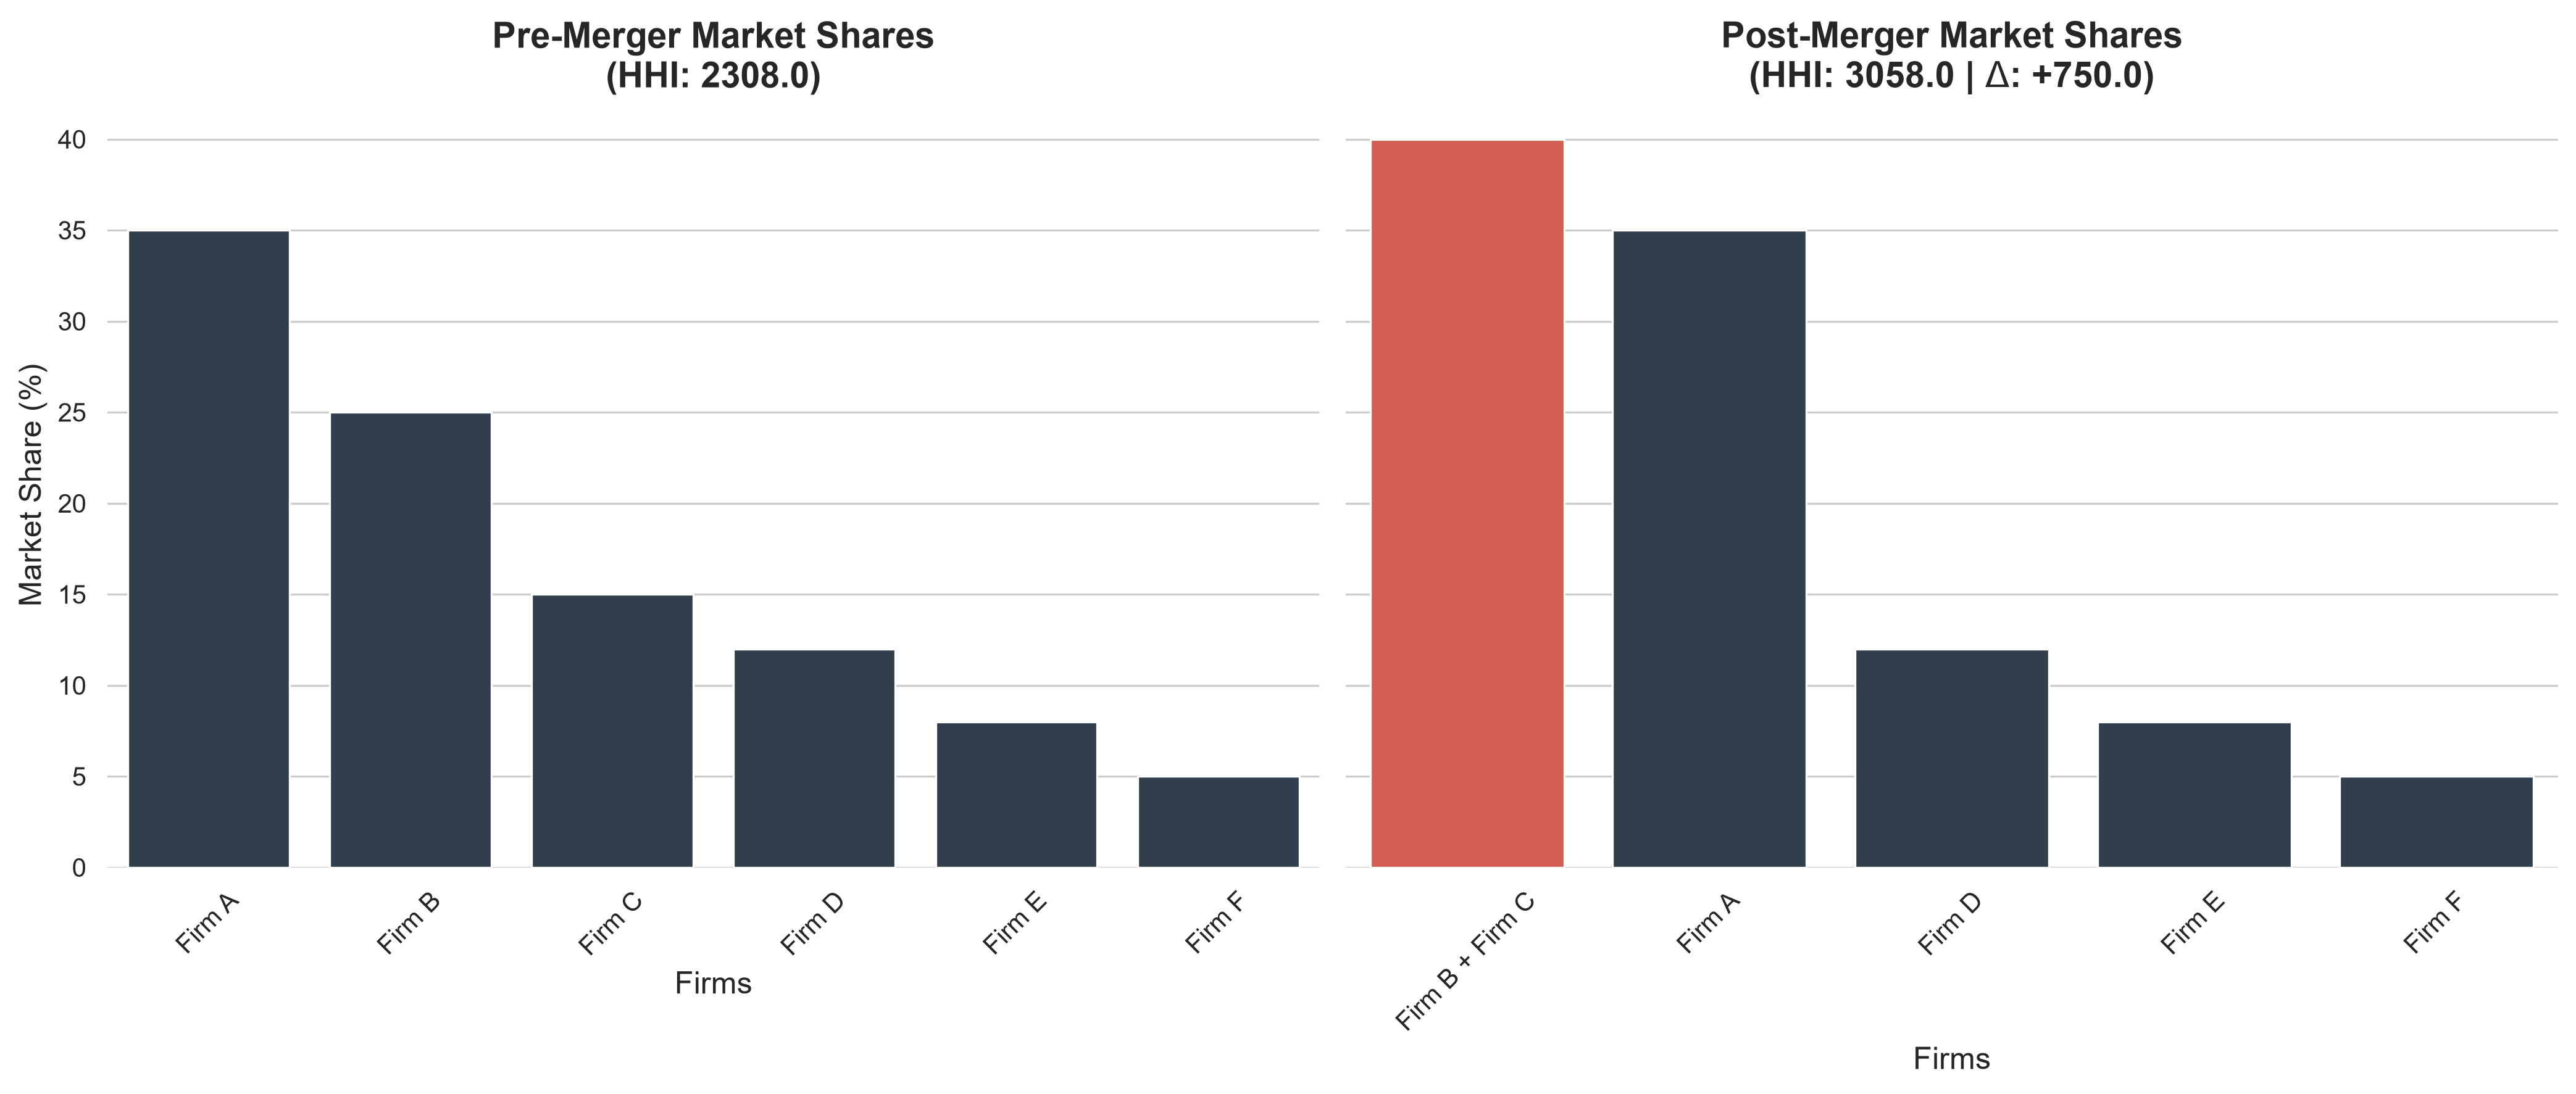
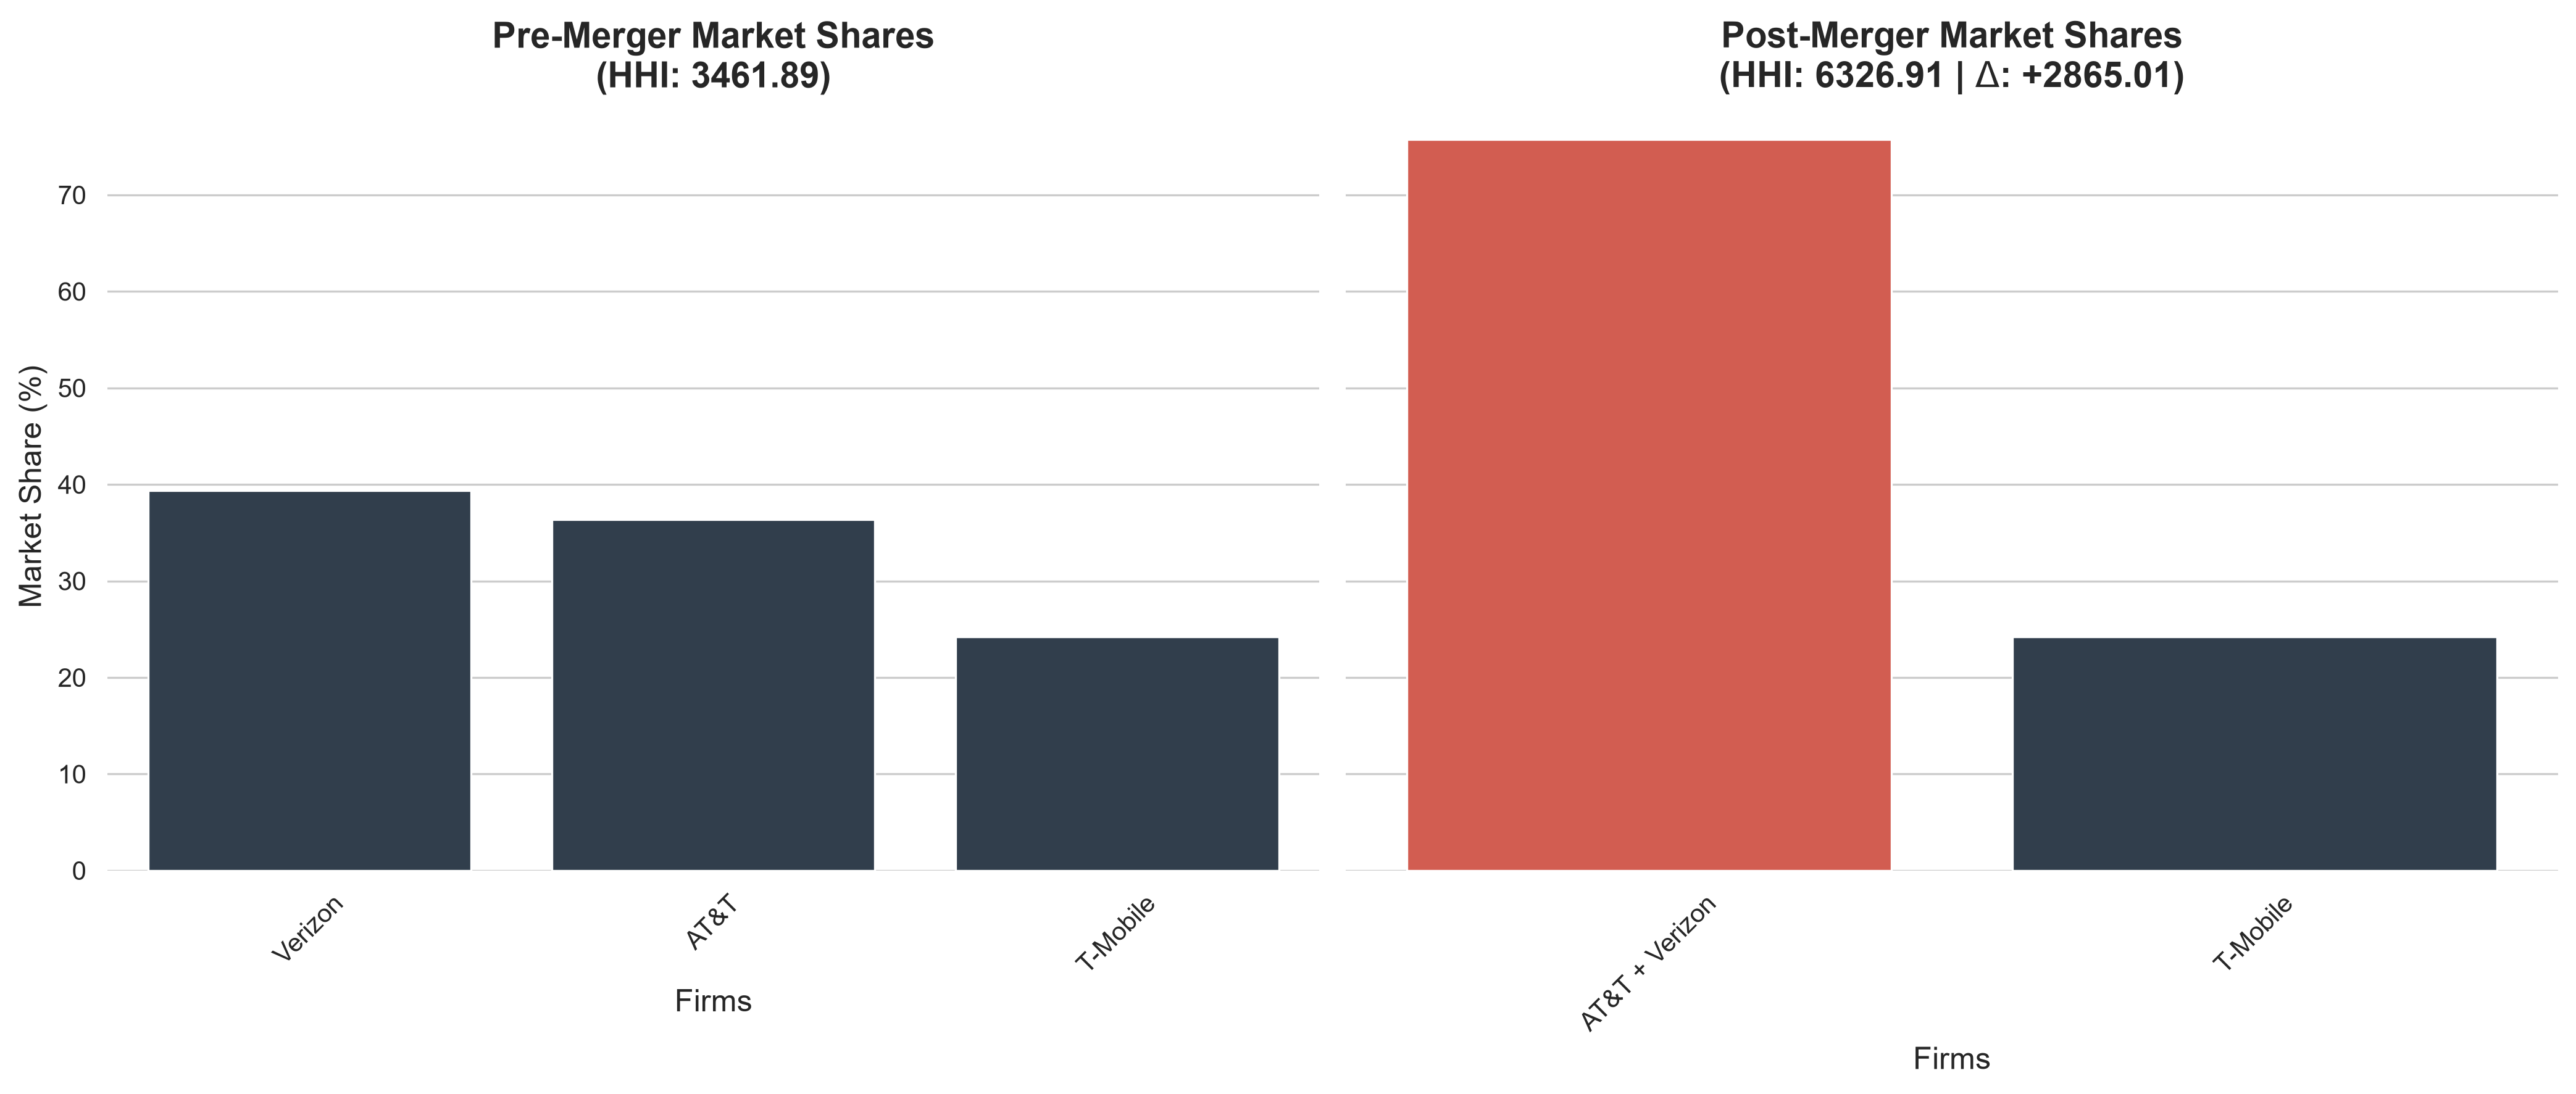
docs: finalize enterprise README and MIT license for public release

diff --git a/README.md b/README.md
@@ -1,85 +1,27 @@
-# 📉 Merger Simulation & Market Concentration Analyzer
+# Merger Simulation & Market Concentration Analyzer
 
-[![Python 3.10+](https://img.shields.io/badge/python-3.10+-blue.svg)](https://www.python.org/downloads/release/python-3100/)
+[![Python](https://img.shields.io/badge/Python-3.13-blue.svg)](https://python.org)
+[![Build](https://img.shields.io/badge/Build-Passing-brightgreen.svg)]()
 [![License: MIT](https://img.shields.io/badge/License-MIT-yellow.svg)](https://opensource.org/licenses/MIT)
-[![Code style: black/ruff](https://img.shields.io/badge/code%20style-ruff-000000.svg)](https://github.com/astral-sh/ruff)
-[![CI Pipeline](https://github.com/thanhan25/merger-simulation-hhi-analyzer/actions/workflows/ci.yml/badge.svg)](https://github.com/thanhan25/merger-simulation-hhi-analyzer/actions)
 
-An enterprise-grade, quantitative antitrust toolkit designed to calculate market concentration metrics and simulate the competitive effects of hypothetical corporate mergers.
+An enterprise-grade, quantitative antitrust toolkit designed for competition economists, pricing strategists, and regulatory analysts. This package automates the calculation of the Herfindahl-Hirschman Index (HHI), flags regulatory risks, and simulates the market impact of corporate mergers.
 
-Built for competition economists, antitrust regulatory analysts, and corporate strategy teams to rapidly model M&A scenarios.
+## Core Capabilities
 
-## ✨ Features
+* **Rigorous Econometrics:** Instantly calculates Pre-Merger HHI, Post-Merger HHI, and $\Delta$ HHI based on U.S. DOJ and FTC Horizontal Merger Guidelines.
+* **Enterprise Data Pipelines:** Natively integrates with **Google BigQuery** to run simulations directly against cloud data warehouses via standard SQL.
+* **Boardroom-Ready Visuals:** Generates executive-grade terminal UI reports (via `Rich`) and exports publication-ready statistical charts (via `Matplotlib` & `Seaborn`).
+* **High-Performance Architecture:** Built with modern Python tooling (`uv`, `typer`, `ruff`, `pytest`) for maximum execution speed and reliability.
 
-* **Regulatory Compliance:** Algorithms mapped directly to DOJ/FTC and EU Commission antitrust thresholds.
-* **Causal HHI $\Delta$ Modeling:** Instantly isolates the mathematical market shift caused by a merger.
-* **Executive Visualization:** Automatically generates publication-ready seaborn/matplotlib charts.
-* **Dual Interface:** Accessible via a beautiful, interactive CLI (`Typer`/`Rich`) or as a Python API for Jupyter Notebooks.
-* **Modern DevOps Stack:** Fully typed, tested with `pytest`, and managed via `uv`.
+## Installation
 
-## 📖 Methodology: The Herfindahl-Hirschman Index (HHI)
-
-This toolkit evaluates market concentration utilizing the **HHI**, calculated by squaring the market share of each firm competing in a market and summing the results:
-
-$$
-HHI = \sum_{i=1}^{N} s_i^2
-$$
-
-The simulation engine classifies post-merger markets into regulatory risk categories:
-
-* **Unconcentrated:** HHI < 1500
-* **Moderately Concentrated:** HHI between 1500 and 2500
-* **Highly Concentrated:** HHI > 2500 (Triggers Antitrust Scrutiny)
-
-## 🚀 Installation
-
-We use `uv` for blazing-fast dependency management.
+This project utilizes `uv` for lightning-fast dependency management.
 
 ```bash
+# Clone the repository
 git clone [https://github.com/thanhan25/merger-simulation-hhi-analyzer.git](https://github.com/thanhan25/merger-simulation-hhi-analyzer.git)
 cd merger-simulation-hhi-analyzer
-make install
+
+# Install the project and its dependencies
+uv sync --all-extras
 ```
-
-## 💻 Usage
-
-1. Command Line Interface (CLI)
-   Run rapid simulations directly from your terminal using mock data or CSVs.
-
-```bash
-uv run merger-sim analyze "Firm B" "Firm C" --mock
-```
-
-### Output:
-╭──────────────────────────────────────────────────╮
-│ Merger Simulation: Firm B + Firm C               │
-╰──────────────────────────────────────────────────╯
-┏━━━━━━━━━━━━━━━━━━━━━┳━━━━━━━━━━━━━━━━━━━━━━━━━━━━━━━━━━━━━━━━━━━━━━━━━━┓
-┃ Metric              ┃ Value                                            ┃
-┡━━━━━━━━━━━━━━━━━━━━━╇━━━━━━━━━━━━━━━━━━━━━━━━━━━━━━━━━━━━━━━━━━━━━━━━━━┩
-│ Pre-Merger HHI      │ 2263.0                                           │
-│ Post-Merger HHI     │ 3013.0                                           │
-│ HHI Delta (Δ)       │ +750.0                                           │
-│ Concentration Level │ Highly Concentrated                              │
-│ Regulatory Risk     │ High Risk: Presumed to enhance market power      │
-└─────────────────────┴──────────────────────────────────────────────────┘
-(A high-resolution comparison chart is automatically saved to output/figures/).
-
-2. Python API (For Jupyter Notebooks)
-Import the toolkit into your own economic research pipelines.
-```Python
-import pandas as pd
-from merger_sim import simulate_merger, plot_merger_impact
-
-# Load your market dataset
-df = pd.read_csv("data/raw/telecom_market.csv")
-
-# Simulate a merger between T-Mobile and Sprint
-results = simulate_merger(df, firm_col="Firm", share_col="Market_Share", acquirer="T-Mobile", target="Sprint")
-
-print(f"HHI Change: +{results['delta']}")
-plot_merger_impact(results, output_path="output/tmobile_sprint_impact.png")
-```
-
-## 🤝 Contributing
-Contributions are highly encouraged. Please run make test and make lint before submitting a Pull Request. See CONTRIBUTING.md for more details.